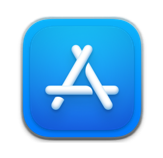
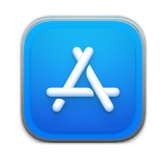
Correction image

diff --git a/index.html b/index.html
@@ -292,7 +292,7 @@
                   <div class="mySlidesfade">
                   <div class="numbertext">
                   </div>
-                  <a href="https://github.com/chris1111/Softwareupdate-full-installer"><img src="https://user-images.githubusercontent.com/6248794/217790097-28b12916-4f66-46e4-8ad0-8ec3ee568b3a.png" style="width:60%"><div><p style="color:DodgerBlue;"></p></div></a>
+                  <a href="https://github.com/chris1111/Softwareupdate-full-installer"><img src="https://user-images.githubusercontent.com/6248794/217793397-798f073b-0a82-4502-9819-85a911c25113.png" style="width:60%"><div><p style="color:DodgerBlue;"></p></div></a>
                   <br>
                   <div class="text" style="color:DodgerBlue;">Softwareupdate-full-installer</div>
               </div>
